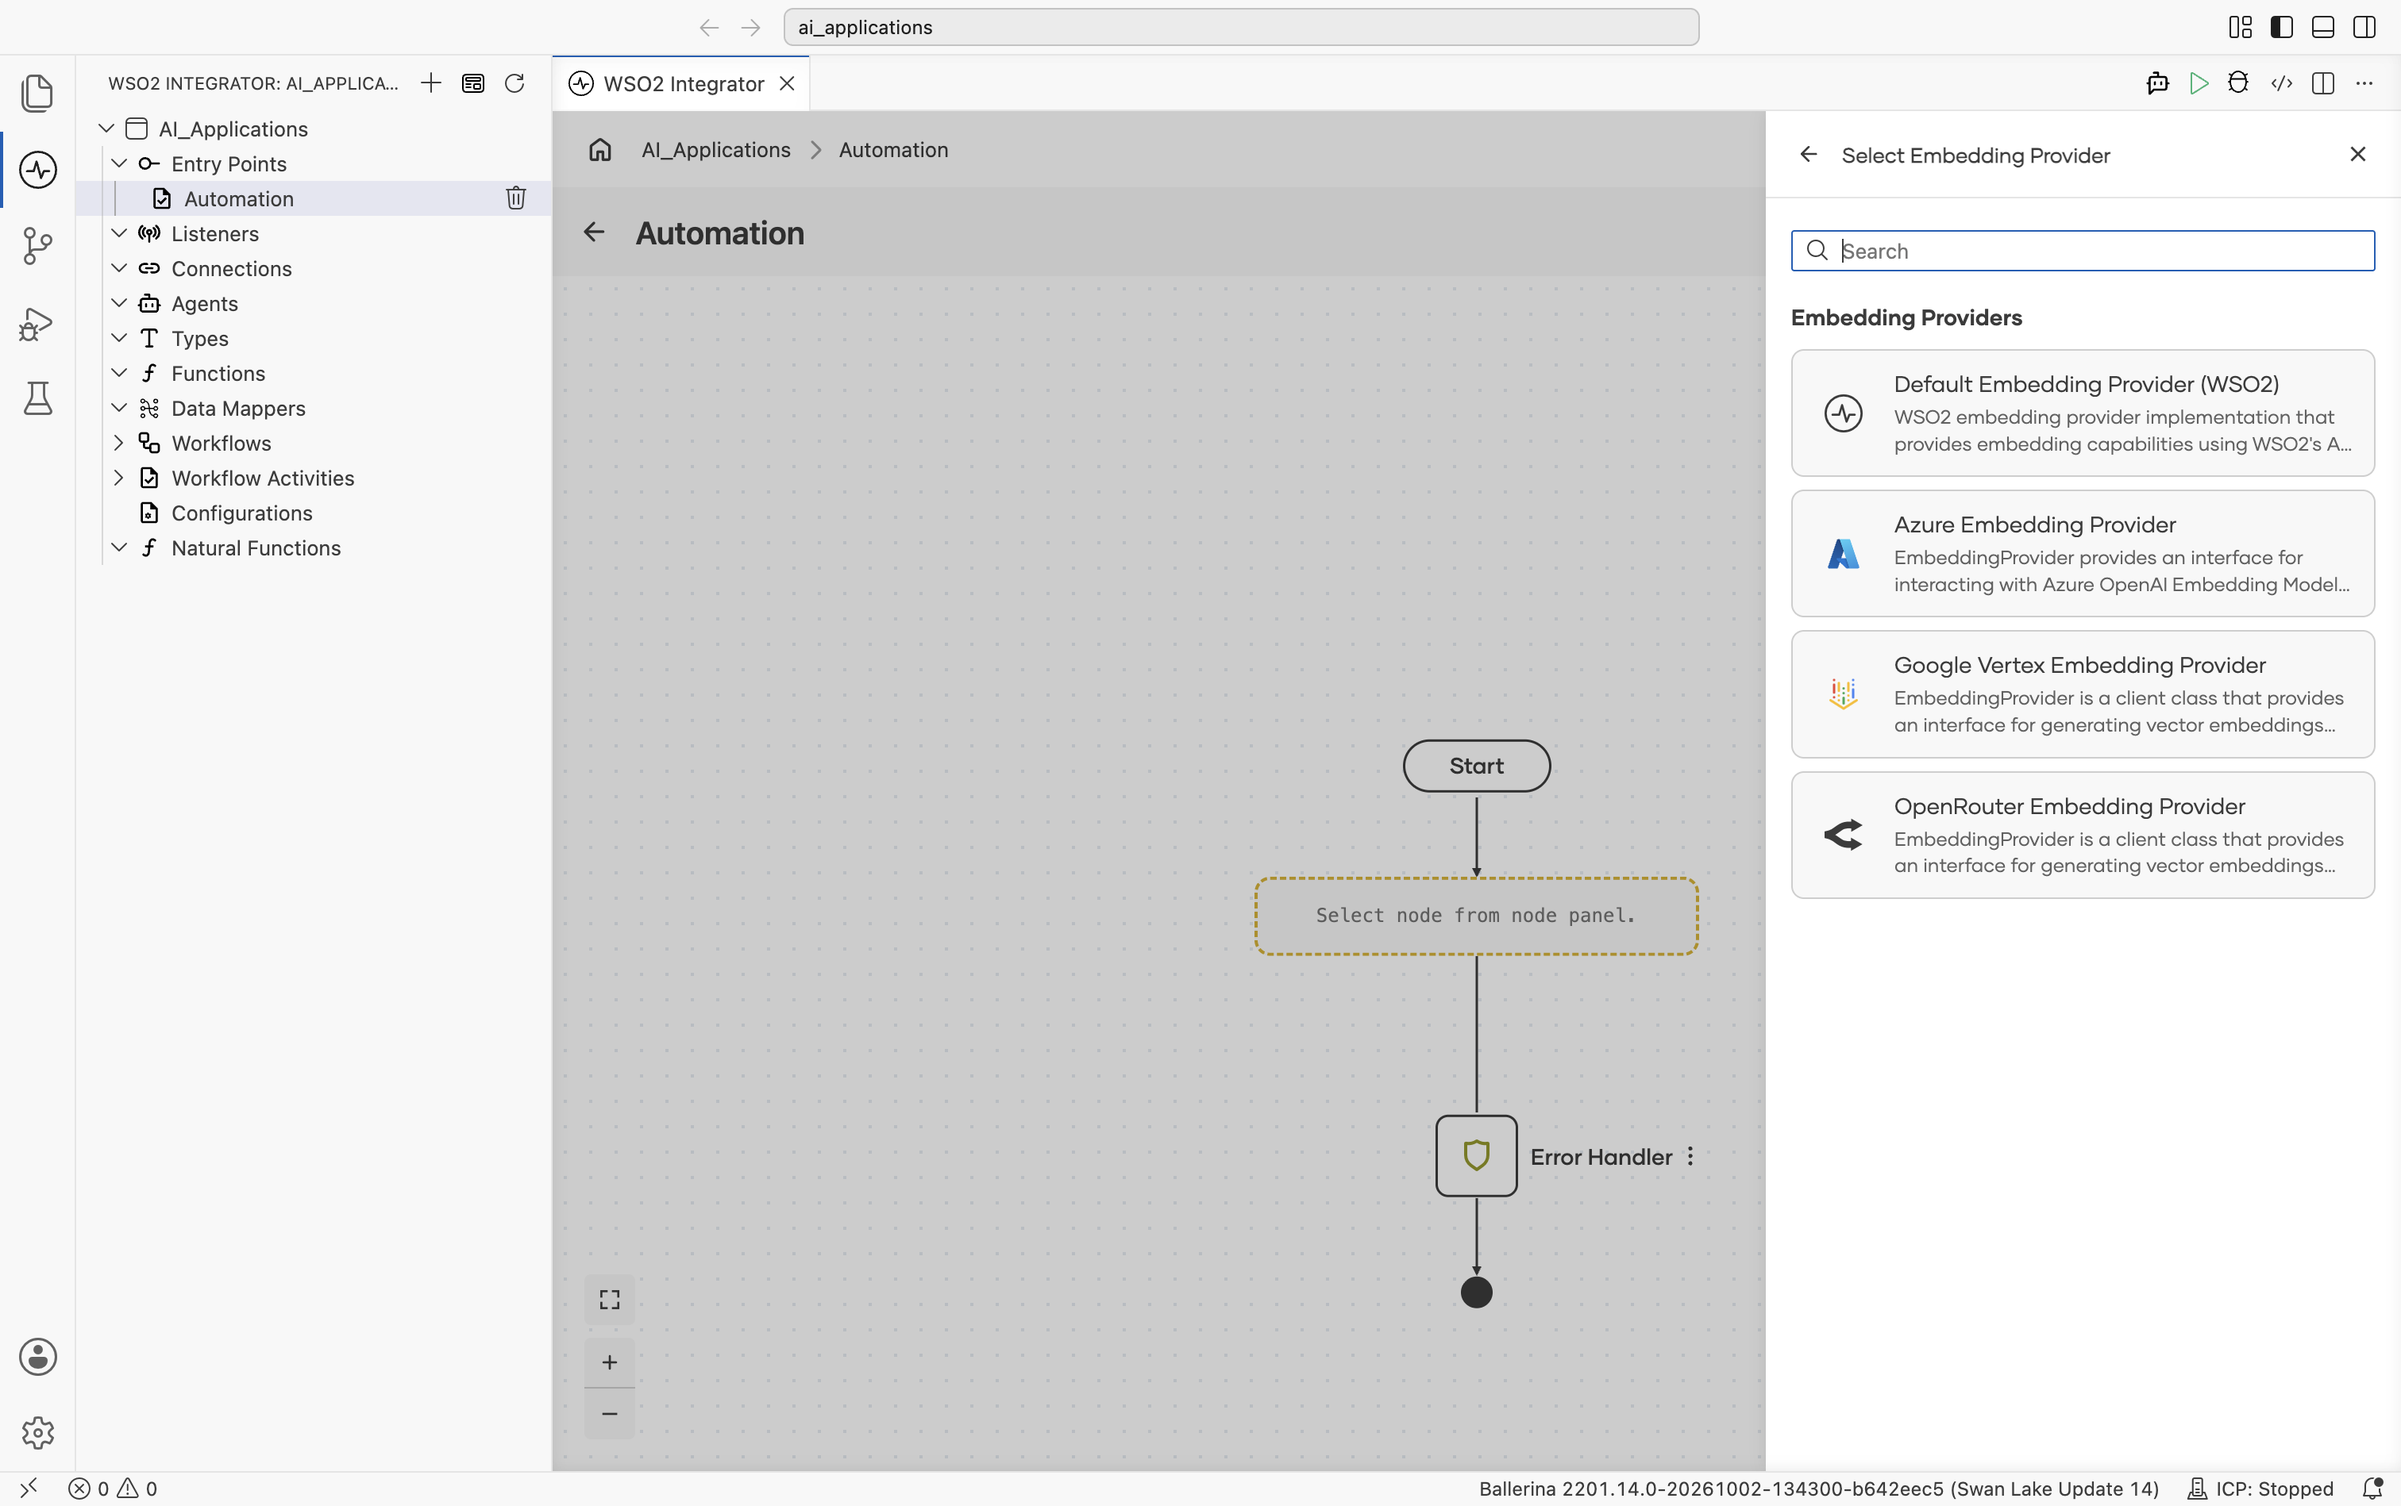
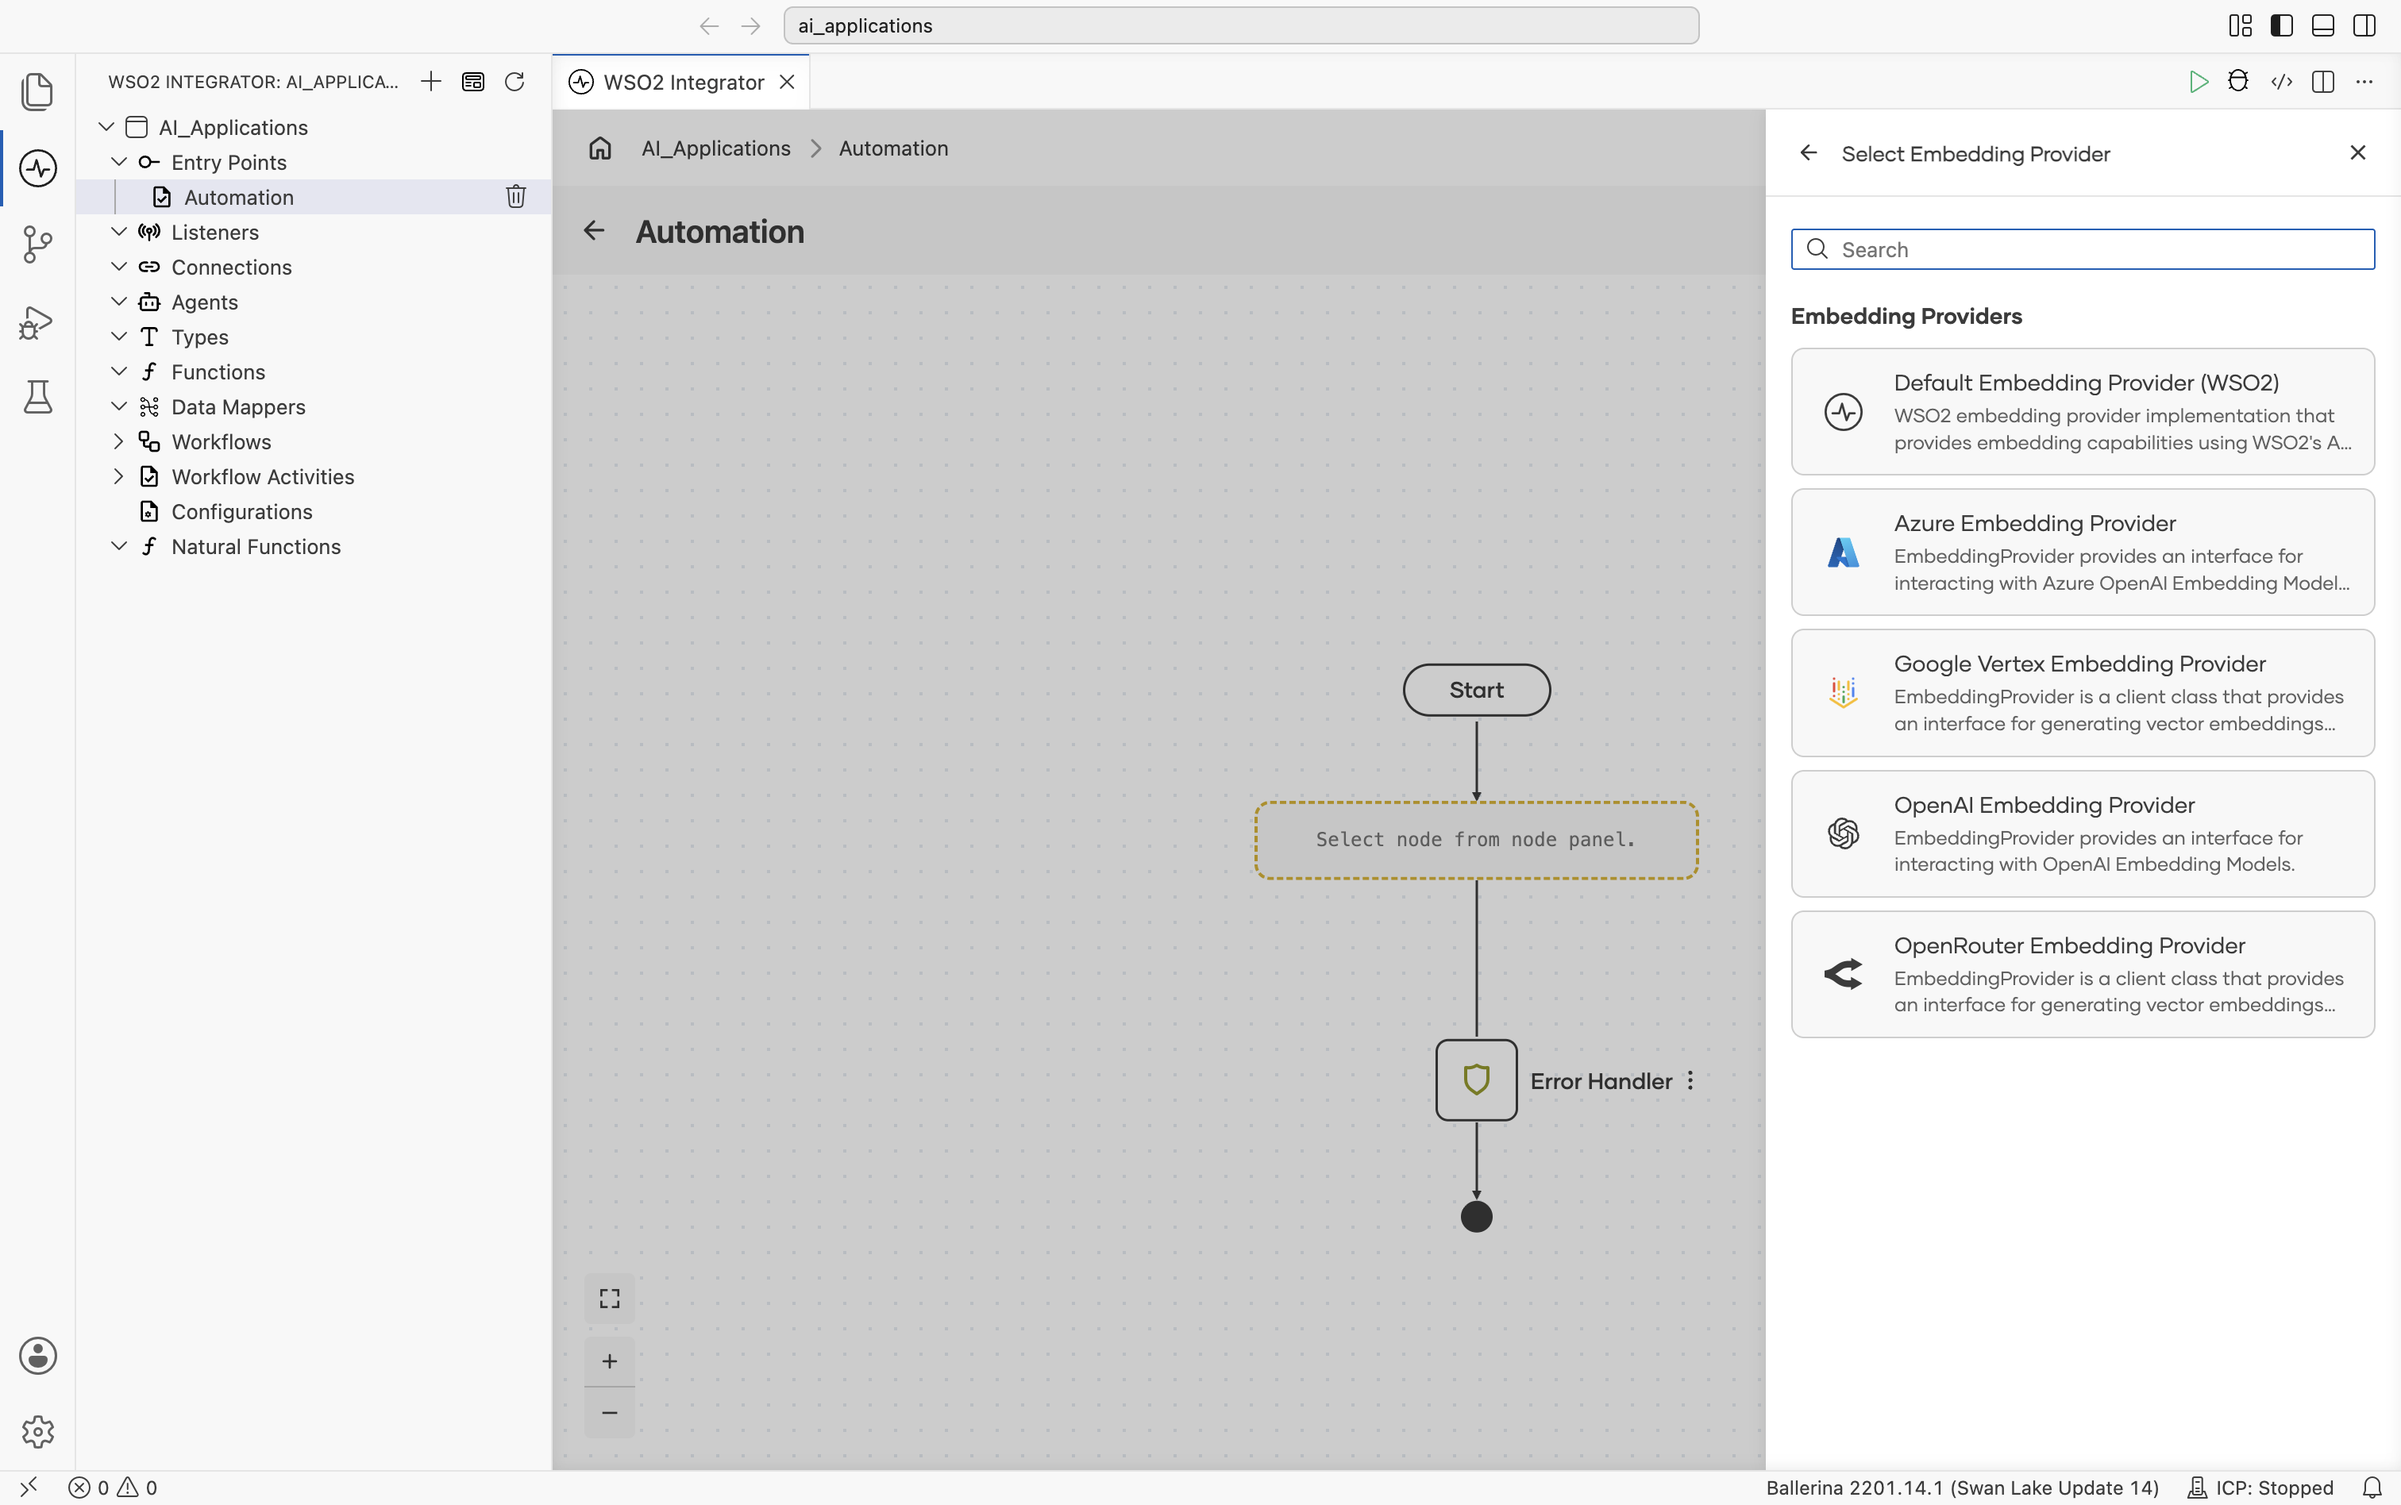
docs(ai): add OpenAI embedding provider to the Embedding Providers page
The Select Embedding Provider picker lists an OpenAI Embedding
Provider (ballerinax/ai.openai), but the Embedding Providers page
only documented the Default WSO2, Azure OpenAI, Google Vertex, and
OpenRouter providers.

- Add an OpenAI section with the create form fields (API Key,
  Embedding Model Type, Service URL), the supported models
  (text-embedding-3-small, text-embedding-3-large,
  text-embedding-ada-002), and a text-only chunks warning
- Add OpenAI to the implementations overview and the provider
  selection tables
- Replace the picker screenshot with one that shows OpenAI, and add
  the OpenAI create form screenshots
- Link the OpenAI model provider section to its embedding provider

diff --git a/en/docs/develop-and-test/integration-artifacts/ai-integrations/ai-building-blocks/embedding-providers.md b/en/docs/develop-and-test/integration-artifacts/ai-integrations/ai-building-blocks/embedding-providers.md
@@ -1,8 +1,8 @@
 ---
 sidebar_position: 3
 title: Embedding Providers for Embedding Models
-description: Reference for every embedding provider in WSO2 Integrator, covering create form fields, advanced configurations, defaults, and supported embedding models for the Default WSO2 provider, Azure OpenAI, Google Vertex, and OpenRouter.
-keywords: [wso2 integrator, embedding provider, embedding model, vector, knowledge base, azure openai, google vertex, openrouter]
+description: Reference for every embedding provider in WSO2 Integrator, covering create form fields, advanced configurations, defaults, and supported embedding models for the Default WSO2 provider, Azure OpenAI, Google Vertex, OpenAI, and OpenRouter.
+keywords: [wso2 integrator, embedding provider, embedding model, vector, knowledge base, azure openai, google vertex, openai, openrouter]
 slug: /develop-and-test/integration-artifacts/ai-integrations/ai-building-blocks/embedding-providers
 ---
 
@@ -34,7 +34,7 @@ You rarely call these directly. Knowledge Base `ingest` and `retrieve` operation
 - The **Select Embedding Provider** picker opens, listing the available providers with a search bar at the top:
 
 <ThemedImage
-    alt="Select Embedding Provider picker with a search bar and four cards: Default Embedding Provider (WSO2), described as a WSO2 embedding provider implementation that provides embedding capabilities using WSO2's AI service; Azure Embedding Provider, described as an interface for interacting with Azure OpenAI Embedding Models; Google Vertex Embedding Provider; and OpenRouter Embedding Provider, both described as a client class that provides an interface for generating vector embeddings."
+    alt="Select Embedding Provider picker with a search bar and five cards: Default Embedding Provider (WSO2), described as a WSO2 embedding provider implementation that provides embedding capabilities using WSO2's AI service; Azure Embedding Provider, described as an interface for interacting with Azure OpenAI Embedding Models; Google Vertex Embedding Provider, described as a client class that provides an interface for generating vector embeddings; OpenAI Embedding Provider, described as an interface for interacting with OpenAI Embedding Models; and OpenRouter Embedding Provider, described as a client class that provides an interface for generating vector embeddings."
     sources={{
         light: useBaseUrl('/img/genai/develop/components-v5.1/embedding-providers/01-select-embedding-provider-v5.1.png'),
         dark: useBaseUrl('/img/genai/develop/components-v5.1/embedding-providers/01-select-embedding-provider-v5.1.png'),
@@ -48,6 +48,7 @@ You rarely call these directly. Knowledge Base `ingest` and `retrieve` operation
 | **Default WSO2** | `ballerina/ai` | No (signed-in via WSO2) | WSO2-managed |
 | **Azure OpenAI** | [`ballerinax/ai.azure`](https://central.ballerina.io/ballerinax/ai.azure/latest) | Yes | None |
 | **Google Vertex** | [`ballerinax/ai.googleapis.vertex`](https://central.ballerina.io/ballerinax/ai.googleapis.vertex/latest) | OAuth2 / service account | `text-embedding-005` |
+| **OpenAI** | [`ballerinax/ai.openai`](https://central.ballerina.io/ballerinax/ai.openai/latest) | Yes | None |
 | **OpenRouter** | [`ballerinax/ai.openrouter`](https://central.ballerina.io/ballerinax/ai.openrouter/latest) | Yes | None |
 
 :::info
@@ -149,6 +150,48 @@ Scrolling further shows Timeout, Forwarded, Compression, and Payload Validation,
 
 Expanding **Advanced Configurations** shows the exact same panel as the [Standard HTTP advanced configurations](model-providers.md#standard-http-advanced-configurations) section on the Model Providers page. Vertex adds no provider-specific fields here.
 
+## OpenAI
+
+Connects to OpenAI's hosted embedding models.
+
+Official website: [OpenAI embeddings documentation](https://platform.openai.com/docs/guides/embeddings).
+
+### Create form
+
+The form opens with **API Key**, **Embedding Model Type**, and **Service URL**, followed by HTTP Version, Timeout, and the start of Forwarded. The **Embedding Model Type** dropdown lists the supported models:
+
+<ThemedImage
+    alt="Create Embedding Provider form for OpenAI. Header reads 'Initializes the OpenAI embedding model with the given connection configuration.' Fields shown: API Key, Embedding Model Type with its dropdown open listing TEXT_EMBEDDING_3_SMALL, TEXT_EMBEDDING_3_LARGE, TEXT_EMBEDDING_ADA_002, and No Selection, then Service URL, HTTP Version (default HTTP_2_0), Timeout (default 60), and the start of Forwarded (default disable)."
+    sources={{
+        light: useBaseUrl('/img/genai/develop/components-v5.1/embedding-providers/09-openai-basic-v5.1.png'),
+        dark: useBaseUrl('/img/genai/develop/components-v5.1/embedding-providers/09-openai-basic-v5.1.png'),
+    }}
+/>
+
+| Field | Required | Default | Available values |
+|---|---|---|---|
+| **API Key** | Yes | N/A | OpenAI API key. Get one from the [OpenAI API keys](https://platform.openai.com/api-keys) page. |
+| **Embedding Model Type** | Yes | N/A | `text-embedding-3-small`, `text-embedding-3-large`, `text-embedding-ada-002` (shown as `TEXT_EMBEDDING_3_SMALL`, `TEXT_EMBEDDING_3_LARGE`, `TEXT_EMBEDDING_ADA_002`). OpenAI embedding model. |
+| **Service URL** | No | `https://api.openai.com/v1` | OpenAI API base URL. Override it to use an OpenAI-compatible gateway. |
+
+Scrolling further shows Forwarded, Compression, and Payload Validation, then the collapsed **Advanced Configurations** toggle, and finally **Embedding Provider Name** and **Result Type**:
+
+<ThemedImage
+    alt="Bottom of the OpenAI Create Embedding Provider form showing the end of Timeout, then Forwarded, Compression (default AUTO), Payload Validation (default true), the collapsed Advanced Configurations toggle, Embedding Provider Name set to openaiEmbeddingprovider, Result Type locked to openai:EmbeddingProvider, and the Save button."
+    sources={{
+        light: useBaseUrl('/img/genai/develop/components-v5.1/embedding-providers/10-openai-inline-bottom-v5.1.png'),
+        dark: useBaseUrl('/img/genai/develop/components-v5.1/embedding-providers/10-openai-inline-bottom-v5.1.png'),
+    }}
+/>
+
+### Advanced configurations
+
+Expanding **Advanced Configurations** shows the exact same panel as the [Standard HTTP advanced configurations](model-providers.md#standard-http-advanced-configurations) section on the Model Providers page. OpenAI adds no provider-specific fields here.
+
+:::warning
+The OpenAI embedding provider accepts text-only chunks. Image or audio chunks raise an error.
+:::
+
 ## OpenRouter
 
 OpenRouter exposes embedding models from many providers behind a single API.
@@ -200,6 +243,7 @@ OpenRouter's embedding endpoint accepts text-only chunks. Image or audio chunks 
 | Prototyping, no infra setup | **Default WSO2**: sign in once, no key needed. |
 | Already on Azure | **Azure OpenAI**: keep traffic inside your Azure tenant. |
 | Already on Google Cloud | **Vertex**: same auth as the rest of GCP. |
+| Already using OpenAI models | **OpenAI**: use your existing OpenAI API key. |
 | Want one key across many vendors | **OpenRouter**. |
 
 The provider selected at ingest time must remain consistent for the lifetime of the vector store. Switching providers requires re-embedding all stored content.

diff --git a/en/docs/develop-and-test/integration-artifacts/ai-integrations/ai-building-blocks/model-providers.md b/en/docs/develop-and-test/integration-artifacts/ai-integrations/ai-building-blocks/model-providers.md
@@ -538,6 +538,10 @@ Reasoning effort applies only to reasoning models. The chat-tuned variants (`gpt
 | `gpt-5.4`, `gpt-5.4-mini`, `gpt-5.4-nano`, `gpt-5.5`, and the `gpt-5.6` family | `none`, `low`, `medium`, `high`, `xhigh` |
 | o-series (`o1`, `o1-pro`, `o3`, `o3-mini`, `o3-pro`, `o4-mini`) and the Codex models | Accepted; the value is passed through without a per-model restriction list. |
 
+:::info
+The OpenAI package also ships an **Embedding Provider**. See [OpenAI](embedding-providers.md#openai).
+:::
+
 ## OpenRouter
 
 OpenRouter routes a single API across many model providers (OpenAI, Anthropic, Mistral, Meta, Cohere, and others). Use it when you want one key and the freedom to swap models by string.
